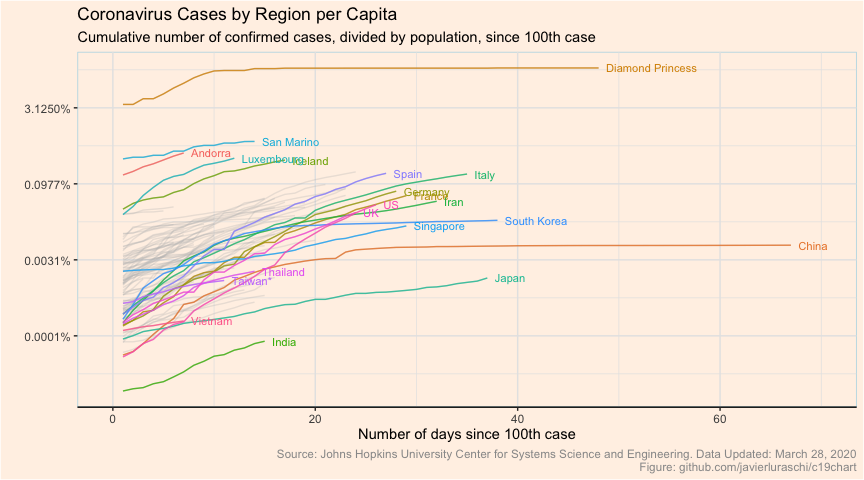
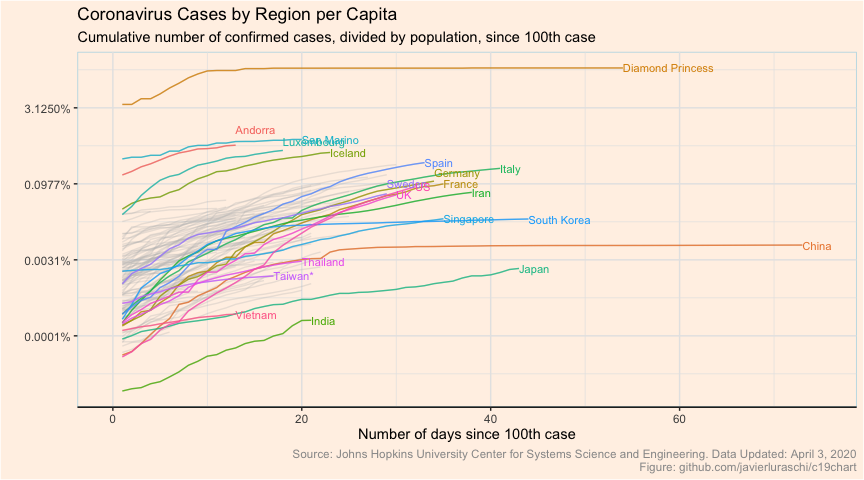
update charts ause report as readme

diff --git a/README.md b/README.md
@@ -64,7 +64,7 @@ since_start %>%
     theme_light()
 ```
 
-![](covid19-world-deaths-per-capita_files/figure-gfm/unnamed-chunk-3-1.png)<!-- -->
+![](README_files/figure-gfm/unnamed-chunk-3-1.png)<!-- -->
 
 ``` r
 population <- read.csv(pins::pin("https://datahub.io/JohnSnowLabs/population-figures-by-country/r/population-figures-by-country-csv.csv"), stringsAsFactors = F)
@@ -85,6 +85,10 @@ population <- population %>%
       Country == "Macedonia, FYR" ~ "North Macedonia",
       Country == "Slovak Republic" ~ "Slovakia",
       Country == "Venezuela, RB" ~ "Venezuela",
+      Country == "Bahamas, The" ~ "Bahamas",
+      Country == "Myanmar"  ~ "Burma",
+      Country == "Gambia, The" ~ "Gambia",
+      Country == "Syrian Arab Republic" ~ "Syria",
       TRUE ~ Country
     )
   )
@@ -92,8 +96,8 @@ population <- population %>%
 population <- transmute(population, country = country, population = Year_2016)
 
 population <- rbind(population, data.frame(
-  country = c("Taiwan*", "Diamond Princess"),
-  population = c(23780000, 3700)
+  country = c("Taiwan*", "Diamond Princess", "MS Zaandam"),
+  population = c(23780000, 3700, 136 + 97)
 ))
 
 countries <- unique(since_start$country)
@@ -106,19 +110,25 @@ covid_since_start <- since_start %>%
   left_join(population, by = "country") %>%
   mutate(total_percent = total / population)
 
-highlight_since_start <- filter(covid_since_start, country %in% c("San Marino", "Andorra", "Iceland", "India", "Luxembourg", "US", "Spain", "Italy", "Japan", "China", "Iran", "UK", "South Korea", "Singapore", "Diamond Princess", "Vietnam", "Taiwan*", "Thailand", "Germany", "France", "Monaco"))
+highlight_since_start <- filter(covid_since_start, country %in% c("San Marino", "Andorra", "Iceland", "India", "Luxembourg", "US", "Spain", "Italy", "Japan", "China", "Iran", "UK", "South Korea", "Singapore", "Diamond Princess", "Vietnam", "Taiwan*", "Thailand", "Germany", "France", "Monaco", "Sweden", "Philippines"))
+
+population_us <- population %>% filter(country == "US") %>% pull(population)
+total_us <- coronavirus %>% 
+  filter(country == "US") %>%
+  summarise(total = sum(cases)) %>%
+  pull(total)
 
 highlight_since_start %>%
   ggplot(aes(x = since_start, y = total_percent, colour = country)) +
     geom_line(aes(group = country), data = covid_since_start, alpha = 0.3, colour = "grey") +
     geom_line(alpha = 0.8) +
     scale_colour_discrete(guide = 'none') +
-    scale_x_continuous(limits = c(0, 70)) +
+    scale_x_continuous(limits = c(0, 75)) +
     scale_y_continuous(labels = scales::percent_format(accuracy = 0.00001), trans='log2') +
-    geom_dl(aes(label = country), method = list(dl.trans(x = x + 0.2), "last.points", cex = 0.7)) +
+    geom_dl(aes(label = country), method = list("last.bumpup", cex = 0.7)) +
     xlab("Number of days since 10th death") + ylab("") +
     labs(title = "Coronavirus Deaths by Region per Capita",
-         subtitle = "Cumulative number of deaths, divided by population, since 10th death",
+         subtitle = "Cumulative number of deaths as percent of population since 10th death",
          caption = element_text("Source: Johns Hopkins University Center for Systems Science and Engineering. Data Updated: March 28, 2020\nFigure: github.com/javierluraschi/c19chart", color="grey")) +
     theme_bw() + 
     theme(plot.background = element_rect(fill = "#fff1e6"),
@@ -130,7 +140,16 @@ highlight_since_start %>%
           panel.grid.major = element_line(color="grey90"),
           panel.grid.minor = element_line(color="grey90"),
           panel.border = element_blank()) +
+    # https://www.cdc.gov/flu/about/burden/2018-2019.html
+    geom_hline(aes(yintercept = 34200 / population_us), colour="grey80", linetype="dashed") +
+    annotate("text", x=71, y = 34200 / population_us + 0.00006, label = "influenza (34K/year US)", size = 3.5, colour="grey70") +
+    # https://www.cdc.gov/nchs/fastats/leading-causes-of-death.htm
+    geom_hline(aes(yintercept = 160201 / population_us), colour="grey80", linetype="dashed") +
+    annotate("text", x=68, y = 160201 / population_us + 0.0003, label = "chronic respiratory (160K/year US)", size = 3.5, colour="grey70") +
+    # https://www.cdc.gov/heartdisease/facts.htm
+    geom_hline(aes(yintercept = 647000 / population_us), colour="grey80", linetype="dashed") +
+    annotate("text", x=69.5, y = 647000 / population_us + 0.001, label = "heart disease (647K/year US)", size = 3.5, colour="grey70") +
     ggsave("covid19-deaths-per-capita.png", device = "png", width = 10, height = 5)
 ```
 
-![](covid19-world-deaths-per-capita_files/figure-gfm/unnamed-chunk-5-1.png)<!-- -->
+![](README_files/figure-gfm/unnamed-chunk-5-1.png)<!-- -->

diff --git a/covid19-world-cases-per-capita.md b/covid19-world-cases-per-capita.md
@@ -104,20 +104,20 @@ covid_since_start <- since_start %>%
   left_join(population, by = "country") %>%
   mutate(total_percent = total / population)
 
-highlight_since_start <- filter(covid_since_start, country %in% c("San Marino", "Andorra", "Iceland", "India", "Luxembourg", "US", "Spain", "Italy", "Japan", "China", "Iran", "UK", "South Korea", "Singapore", "Diamond Princess", "Vietnam", "Taiwan*", "Thailand", "Germany", "France", "Monaco"))
+highlight_since_start <- filter(covid_since_start, country %in% c("San Marino", "Andorra", "Iceland", "India", "Luxembourg", "US", "Spain", "Italy", "Japan", "China", "Iran", "UK", "South Korea", "Singapore", "Diamond Princess", "Vietnam", "Taiwan*", "Thailand", "Germany", "France", "Monaco", "Sweden"))
 
 highlight_since_start %>%
   ggplot(aes(x = since_start, y = total_percent, colour = country)) +
     geom_line(aes(group = country), data = covid_since_start, alpha = 0.3, colour = "grey") +
     geom_line(alpha = 0.8) +
     scale_colour_discrete(guide = 'none') +
-    scale_x_continuous(limits = c(0, 70)) +
+    scale_x_continuous(limits = c(0,75)) +
     scale_y_continuous(labels = scales::percent_format(accuracy = 0.0001), trans='log2') +
-    geom_dl(aes(label = country), method = list(dl.trans(x = x + 0.2), "last.points", cex = 0.7)) +
+    geom_dl(aes(label = country), method = list("last.bumpup", cex = 0.7)) +
     xlab("Number of days since 100th case") + ylab("") +
     labs(title = "Coronavirus Cases by Region per Capita",
          subtitle = "Cumulative number of confirmed cases, divided by population, since 100th case",
-         caption = element_text("Source: Johns Hopkins University Center for Systems Science and Engineering. Data Updated: March 28, 2020\nFigure: github.com/javierluraschi/c19chart", color="grey")) +
+         caption = element_text("Source: Johns Hopkins University Center for Systems Science and Engineering. Data Updated: April 3, 2020\nFigure: github.com/javierluraschi/c19chart", color="grey")) +
     theme_bw() + 
     theme(plot.background = element_rect(fill = "#fff1e6"),
           panel.background = element_rect(fill = "#fff1e6",
